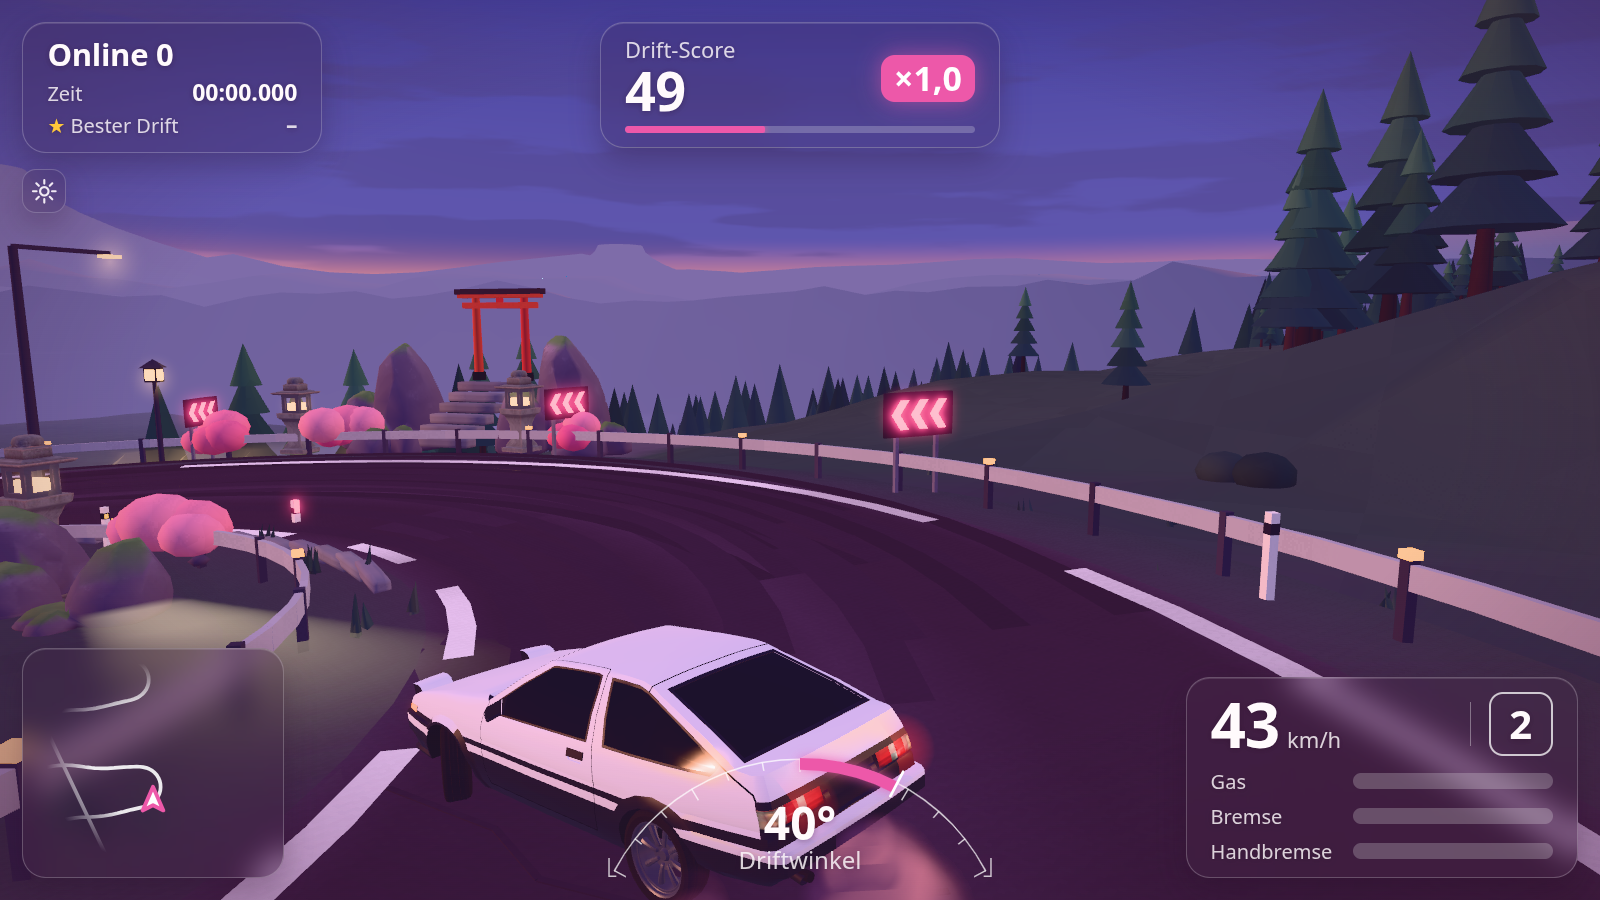
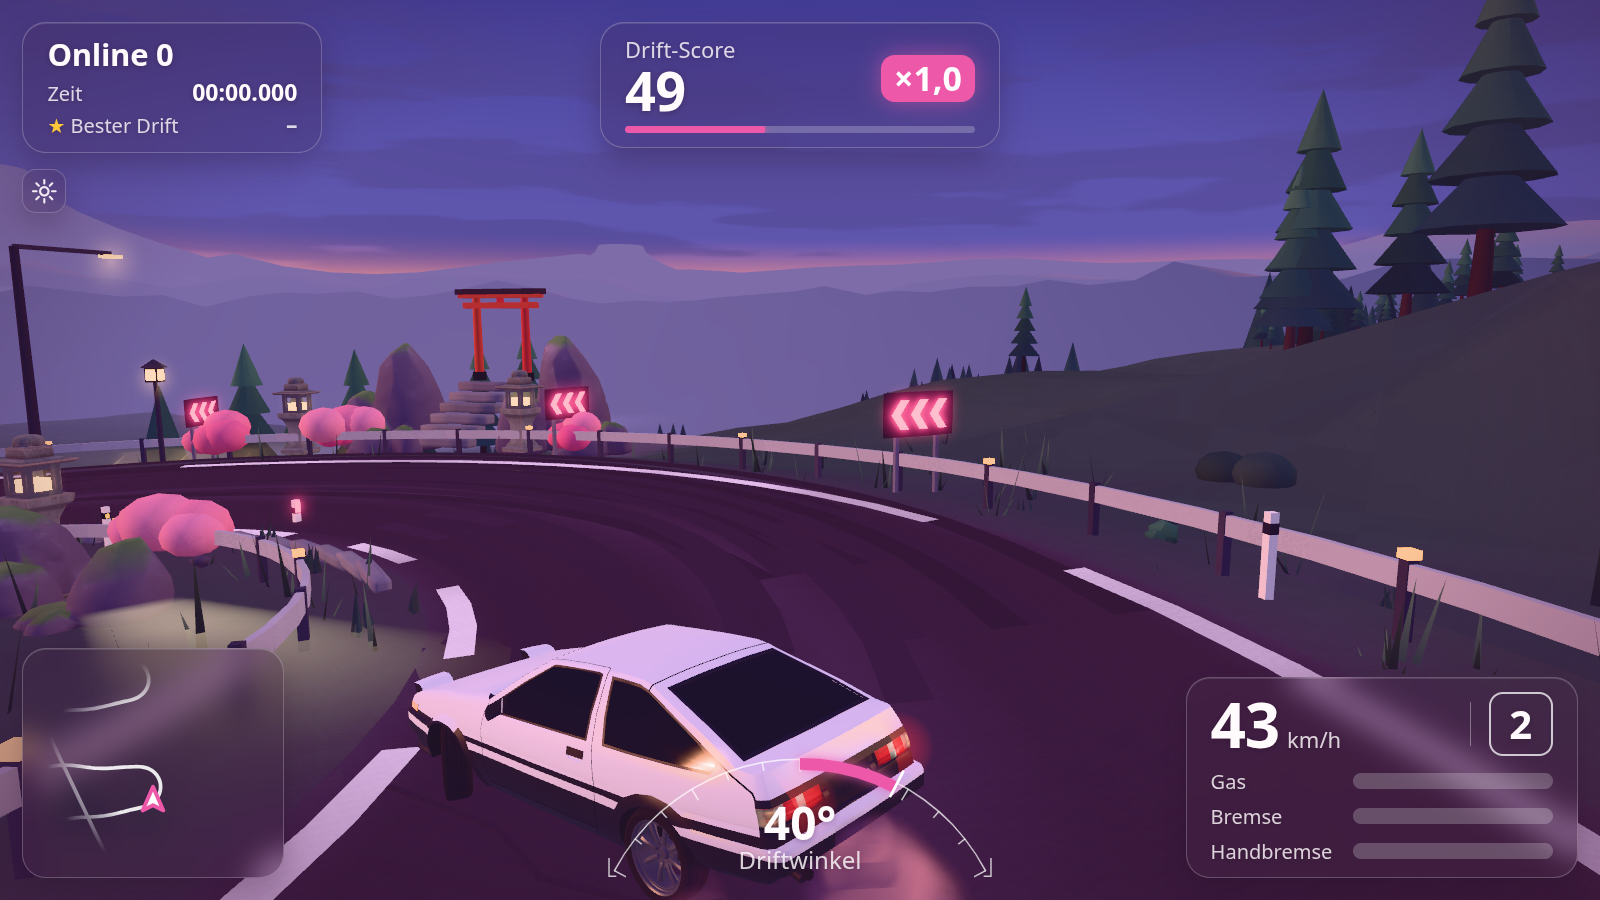
L6 grass and low plants beside the road (view/look/foliage.js): instanced clumps and bushes by tier, a light wind on the GPU, none on the phone; tier counts trimmed to stay at 400k triangles / 60 calls; STATE

diff --git a/game/view/look/foliage.js b/game/view/look/foliage.js
@@ -1,0 +1,95 @@
+// Grass and low plants beside the road: clumps of thin blades (a fan of three triangles, dark at the foot, lighter at the tip) and soft low bushes, each kind ONE
+// instanced mesh (one draw call), placed along the road where the camera looks (densest 1 to 12 m from the road's edge, thinning to the sides), on ground that is not
+// steep, not on the road and not on the plaza. Counts come from the tier (`tier.grass`, `tier.plants`; none on the phone: it keeps the tufts of world.js details()).
+// The blades sway a little in a light wind (the tip moves by at most 5 cm; one time uniform, on the GPU). Nothing here casts or receives a shadow.
+import * as THREE from '../../../vendor/three/three.module.js';
+import { X } from '../space.js';
+import { insidePoly } from './field.js';
+
+const C = (hex) => new THREE.Color(hex);
+
+/** One clump: three blades leaning a little apart, each a triangle; the colour runs from the foot to the tip. */
+function clumpGeometry(foot, tip) {
+  const pos = [], col = [], nor = [];
+  for (let b = 0; b < 3; b++) {
+    const a = (b / 3) * Math.PI * 2 + b * 0.7, lean = 0.14 + b * 0.07, h = 0.7 + (b % 2) * 0.4 - (b === 2 ? 0.25 : 0), w = 0.06;
+    const cx = Math.cos(a) * 0.05, cz = Math.sin(a) * 0.05, tx = cx + Math.cos(a) * lean, tz = cz + Math.sin(a) * lean, px = -Math.sin(a) * w, pz = Math.cos(a) * w;
+    pos.push(cx - px, 0, cz - pz, cx + px, 0, cz + pz, tx, h, tz);
+    col.push(foot.r, foot.g, foot.b, foot.r, foot.g, foot.b, tip.r, tip.g, tip.b);
+    for (let k = 0; k < 3; k++) nor.push(0, 1, 0);   // lit from above like the ground: a clump is not shaded blade by blade
+  }
+  const g = new THREE.BufferGeometry();
+  g.setAttribute('position', new THREE.Float32BufferAttribute(pos, 3)); g.setAttribute('color', new THREE.Float32BufferAttribute(col, 3)); g.setAttribute('normal', new THREE.Float32BufferAttribute(nor, 3));
+  return g;
+}
+
+/** A low bush: three soft faceted blobs, darker below. */
+function bushGeometry(dark, light) {
+  const parts = [];
+  for (const [x, y, z, r] of [[0, 0.22, 0, 0.3], [0.22, 0.17, 0.1, 0.2], [-0.16, 0.16, -0.16, 0.22]]) {
+    const g = new THREE.IcosahedronGeometry(r, 0); g.translate(x, y, z); g.scale(1, 0.8, 1);
+    const p = g.attributes.position, c = new Float32Array(p.count * 3), k = new THREE.Color();
+    for (let i = 0; i < p.count; i++) { k.copy(dark).lerp(light, Math.min(1, Math.max(0, p.getY(i) / 0.45))); c.set([k.r, k.g, k.b], i * 3); }
+    g.setAttribute('color', new THREE.BufferAttribute(c, 3)); g.deleteAttribute('uv');
+    parts.push(g);
+  }
+  const n = parts.reduce((s, g) => s + g.attributes.position.count, 0), pos = new Float32Array(n * 3), nor = new Float32Array(n * 3), col = new Float32Array(n * 3);
+  let o = 0; for (const g of parts) { pos.set(g.attributes.position.array, o * 3); nor.set(g.attributes.normal.array, o * 3); col.set(g.attributes.color.array, o * 3); o += g.attributes.position.count; }
+  const g = new THREE.BufferGeometry(); g.setAttribute('position', new THREE.BufferAttribute(pos, 3)); g.setAttribute('normal', new THREE.BufferAttribute(nor, 3)); g.setAttribute('color', new THREE.BufferAttribute(col, 3));
+  return g;
+}
+
+/**
+ * @param f the field (view/look/field.js)  @param scene the scene (plaza, lake)  @param look the look (land colours, foliage {...})  @param tier the tier ({ grass, plants })
+ * @returns a group of two instanced meshes, or null when the tier has none
+ */
+export function makeFoliage(f, scene, look, tier, rnd) {
+  const nGrass = tier.grass ?? 0, nPlants = tier.plants ?? 0;
+  if (!nGrass && !nPlants) return null;
+  const F = look.foliage ?? {}, L = look.land, K = scene.lake, plaza = scene.plaza?.pts ?? null;
+  const nearLake = (x, z) => !!K && Math.hypot((x - K.x) / K.rx, (z - K.z) / K.rz) < 1.9;
+  const group = new THREE.Group(); group.name = 'foliage';
+  const time = { value: 0 };
+  /** Walk along the road and drop `count` places: x, z, ground height; the nearer to the road, the likelier. */
+  const places = (count, reach) => {
+    const out = [], len = f.info.length;
+    for (let tries = 0; out.length < count && tries < count * 8; tries++) {
+      const d = rnd() * len, side = rnd() < 0.5 ? -1 : 1, e = 0.6 + Math.pow(rnd(), 2.2) * reach;
+      const i = Math.min(f.road.length - 2, Math.max(0, Math.floor((d / len) * (f.road.length - 1)))), p = f.road[i], dir = f.info.dir[i], r = [dir[1], -dir[0]], o = f.hw + e;
+      const x = p[0] + r[0] * side * o, z = p[1] + r[1] * side * o;
+      if (f.edge(x, z) < 0.5 || f.slope(x, z) > 0.6 || f.wet(x, z, 3) || nearLake(x, z) || (plaza && insidePoly(plaza, x, z))) continue;
+      out.push([x, f.height(x, z), z]);
+    }
+    return out;
+  };
+  const m = new THREE.Matrix4(), q = new THREE.Quaternion(), up = new THREE.Vector3(0, 1, 0), v = new THREE.Vector3(), s = new THREE.Vector3(), k = new THREE.Color();
+  const make = (geo, material, list, scale, tint) => {
+    const mesh = new THREE.InstancedMesh(geo, material, list.length);
+    list.forEach(([x, y, z], i) => {
+      const sc = scale[0] + rnd() * (scale[1] - scale[0]);
+      mesh.setMatrixAt(i, m.compose(v.set(X(x), y - 0.02, z), q.setFromAxisAngle(up, rnd() * 6.3), s.set(sc * (0.85 + rnd() * 0.3), sc, sc * (0.85 + rnd() * 0.3))));
+      if (tint) { k.setScalar(0.8 + rnd() * 0.4); mesh.setColorAt(i, k); }
+    });
+    mesh.instanceMatrix.needsUpdate = true; if (mesh.instanceColor) mesh.instanceColor.needsUpdate = true;
+    mesh.computeBoundingSphere(); mesh.frustumCulled = true; mesh.castShadow = false; mesh.receiveShadow = false;
+    return mesh;
+  };
+  if (nGrass) {
+    const foot = C(F.foot ?? L.cool).multiplyScalar(0.85), tip = C(F.tip ?? L.high).lerp(C(L.moss ?? '#7a9a62'), 0.45);
+    const mat = new THREE.MeshLambertMaterial({ vertexColors: true, side: THREE.DoubleSide });
+    // the tips move in a light wind: by their height over the foot, with a phase from the clump's place (set by `tier.wind`, mid and high tier)
+    if (tier.wind !== false) mat.onBeforeCompile = (sh) => {
+      sh.uniforms.uTime = time;
+      sh.vertexShader = sh.vertexShader.replace('#include <common>', '#include <common>\nuniform float uTime;').replace('#include <begin_vertex>', `#include <begin_vertex>
+        { vec3 ip = instanceMatrix[3].xyz; float sway = sin(uTime * 1.7 + ip.x * 0.35 + ip.z * 0.27) * 0.05 * position.y; transformed.x += sway; transformed.z += sway * 0.6; }`);
+    };
+    const mesh = make(clumpGeometry(foot, tip), mat, places(nGrass, F.reach ?? 12), [0.8, 1.5]);
+    mesh.name = 'grass'; mesh.onBeforeRender = () => { time.value = performance.now() / 1000; };
+    group.add(mesh);
+  }
+  if (nPlants) {
+    const dark = C(F.plantDark ?? '#2c4a42'), light = C(F.plantLight ?? '#4e7a62');
+    group.add(Object.assign(make(bushGeometry(dark, light), new THREE.MeshLambertMaterial({ vertexColors: true }), places(nPlants, F.reach ?? 12), [0.7, 1.5], true), { name: 'plants' }));
+  }
+  return group;
+}

diff --git a/game/view/look/world.js b/game/view/look/world.js
@@ -11,6 +11,7 @@ import { mulberry32, noise2, smoothstep } from '../../core/rng.js';
 import { X } from '../space.js';
 import { makeField, bends, pointAt, insidePoly, distToPoly } from './field.js';
 import { sunDirection } from './sky.js';
+import { makeFoliage } from './foliage.js';
 
 const C = (hex) => new THREE.Color(hex);
 const _a = new THREE.Vector3(), _b = new THREE.Vector3(), _c = new THREE.Vector3();
@@ -122,6 +123,8 @@ export function buildWorld(scene, look, tierName = 'high') {
       diffuseColor.rgb *= ${(1 - (look.road.grain ?? 0.32) * 0.7).toFixed(3)} + grain * ${(look.road.grain ?? 0.32).toFixed(3)};`);   // look.road.grain: how strong
   };
   group.add(solid, lights, roadMesh);
+  const foliage = makeFoliage(f, scene, look, tier, mulberry32(61));   // grass and low plants beside the road (view/look/foliage.js; none on the phone)
+  if (foliage) group.add(foliage);
   const poolMesh = lightPools(pools, look, f);
   if (poolMesh) group.add(poolMesh);
   if (water) group.add(water);

diff --git a/docs/STATE.md b/docs/STATE.md
@@ -676,3 +676,15 @@ A static page with sample data, no server logic, no inline script; every text th
 ## Look branch 0b78429 (slice 3, smoke and pools) and car branch 7310750 merged (2026-11-26, Sonnet)
 - Through the gate: look = e8bcbe9 (conflicts only in `frame.css` (the music slider rule: both said the same, one kept) and STATE), car = 92e7ac7 (one conflict in `main.js`: the smoke start at the rear wheel took both the look's `S.behind` offset and the car branch's `drawnSurface`). The plaza of 431b72d did not conflict (the look's `field.js` and `world.js` merged by themselves).
 - Checked after both: node 238 pass, .NET 250 pass; play check: track check, drive check, interface check, both rides green; the page at five sizes loads with every start place on the drawn ground. **The road probe still has ONE sample out of 1200 off by 7 cm** (limit 5 cm): 895 m along, 3.6 m beside the centre (the apex region of the fourth hairpin, tilted road): the car's ground -46.404, the drawn road -46.331 (the drawn road is above the surface there). The 0.27 m finding of before is gone (the mean difference drawn minus surface is 2 cm over all samples, the car branch lifts the car's drawing 3 cm on top). So the play check is NOT fully green: 1 sample of the look's ribbon at a hairpin apex is 2 cm over the limit.
+## L5 rocks and L6 grass (the look chat)
+- L5: `game/assets/env/rocks.glb` (the Ghibli-esque rocks, CC BY 4.0, one cluster of painted rocks, 516 triangles, 256 px colour map) through `look.models.rocks` and `view/look/models.js`
+  (instanced, one draw call). Placed by `rocks()` at the foot of the cut and on the slope, in the hairpins' rock walls and on their islands: sunk 28 to 45 % into the ground and leaning
+  with the ground's normal (`S.slot(..., n)`), never within 1.5 m of the road's edge. The colour is the look's (`look.models.paint.rocks`: `rock` and `moss`; the file's painting only
+  gives light and dark, moss on faces that look up, by the normal in the shader); the old balls only when the model is missing. The phone has fewer (`tier.rocks`, wall steps).
+- L6: `view/look/foliage.js` (`makeFoliage`): grass clumps (three blades, dark foot, lighter tip, a light wind on the GPU) and low bushes, one instanced mesh each, along the road
+  (densest 1 to 12 m from the edge, `look.foliage.reach`), on ground that is not steep, not on the road, plaza or lake. Counts by tier: `tier.grass`, `tier.plants` (high 4000 / 70, medium 3000 / 80,
+  none on the phone: it keeps the tufts). No shadows. Not tiled in 64 m squares: one draw call per kind keeps the budget (a tile per square would be 5 to 10 more calls).
+- Numbers (headless Chromium on the machine's graphics, shot=tal): high 402k triangles / 60 calls (before L5 and L6: 395k / 58; the budget is 400k / 60), 16.9 ms with the foliage, 16.8 ms
+  without it (the frame is capped by the display rate here, so this only says "not slower"); phone 130k / 23 (before 116k / 22; the rocks are 14k of it; the aim is about 120k).
+  To fit: the tier's carpet 2000 to 400, near pines 160 to 130, rocks 40 to 8 (each a cluster of 516 triangles). Palette on shot=tal: mean 69 (the sky changed meanwhile).
+- Not checked: a real phone's frame time. Not done: L7 (clouds, stars: the drift chat), the pine thickening on the slope above the road (plan L6 item 5).
